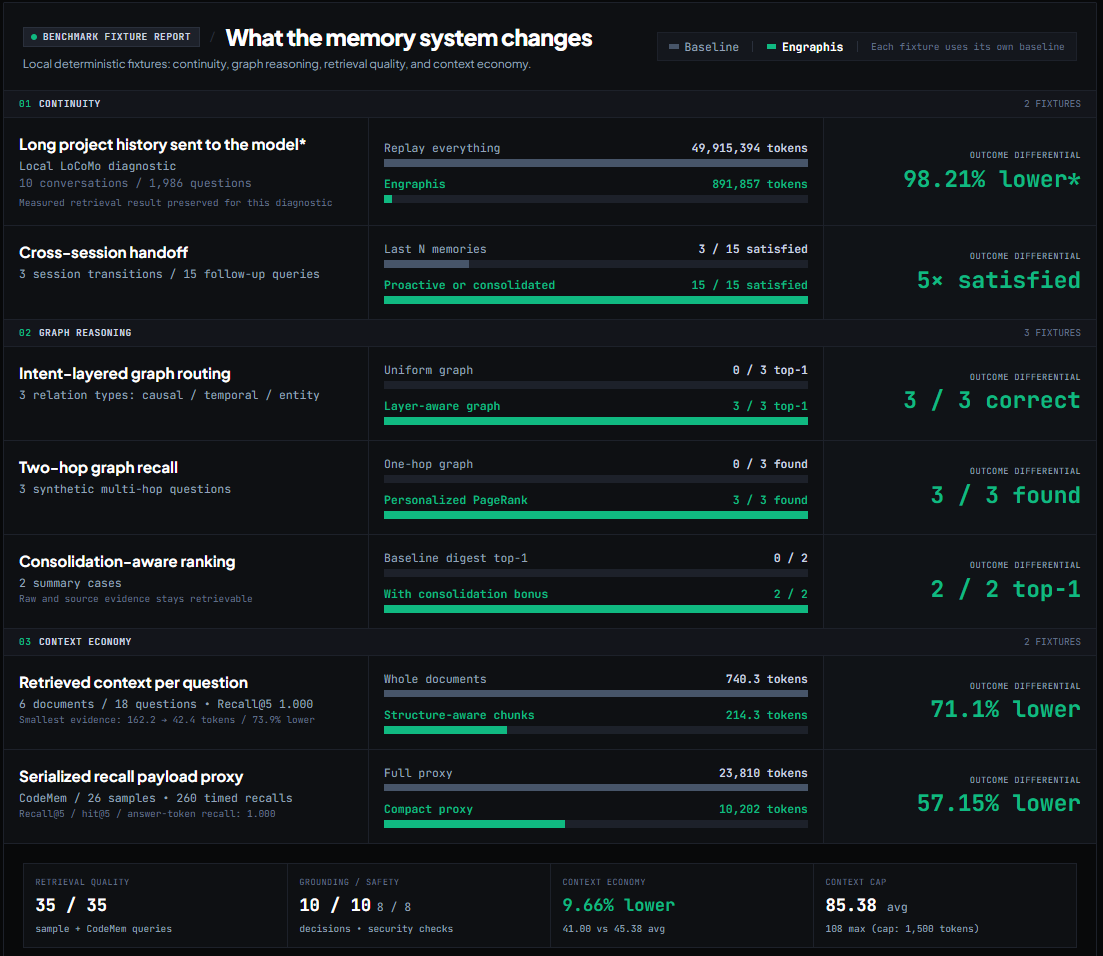
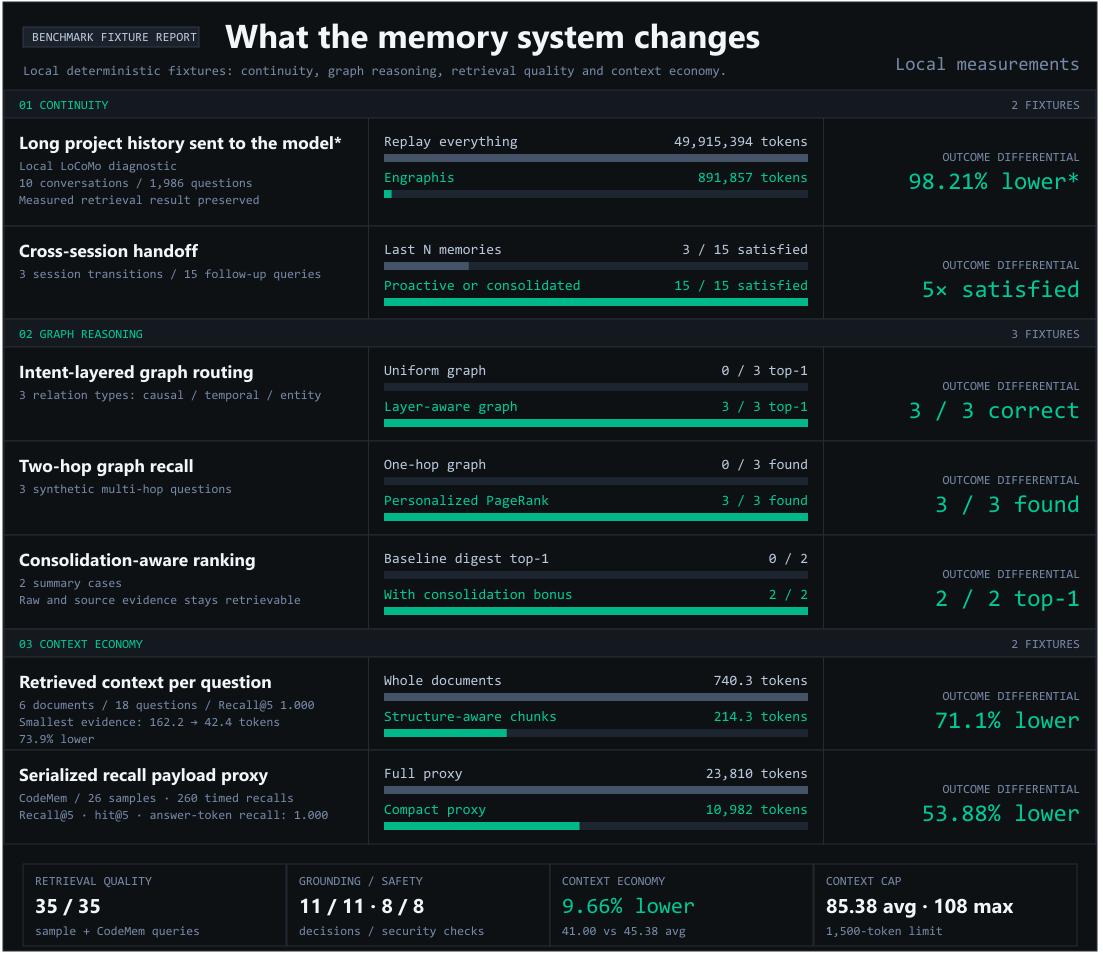
docs(eval): refresh measured payload evidence and rendered figures

diff --git a/tests/test_benchmark_evidence.py b/tests/test_benchmark_evidence.py
@@ -154,7 +154,7 @@ def test_readme_distinguishes_every_registered_token_context_measurement():
         "offline-fixtures-v1.json",
         "offline-chunking",
         "offline-performance",
[2 lines of base64/hex data omitted]
         "There is no universal memory-count",
         "python -m eval.vector_scale",
         'vector_backend="sqlite-vec"',
@@ -288,7 +288,7 @@ def test_example_visual_uses_the_checked_in_offline_fixture_results(
     }
     assert "5/5 answerable questions" in visual
     assert "6/6 off-topic questions" in visual
[2 lines of base64/hex data omitted]
 
 
 def test_context_savings_visual_uses_only_registered_measurements():
@@ -307,6 +307,7 @@ def test_context_savings_visual_uses_only_registered_measurements():
     performance = committed["performance"]
     context_full = performance["full_serialized_payload_tokens"]
     context_compact = performance["compact_serialized_payload_tokens"]
+    grounded_total = committed["grounded"]["answerable"] + committed["grounded"]["off_topic"]
     payload_samples = performance["questions"]
     timed_recalls = performance["timed_recalls"]
 
@@ -341,11 +342,19 @@ def test_context_savings_visual_uses_only_registered_measurements():
         f"{100 * performance['serialized_payload_savings_ratio']:.2f}% lower",
         f"{performance['mean_context_tokens']:.2f} avg · {performance['max_context_tokens']} max",
         "35 / 35",
-        "10 / 10 · 8 / 8",
+        f"{grounded_total} / {grounded_total} · 8 / 8",
         "9.66% lower",
         "Local deterministic fixtures",
     ):
         assert evidence in visual
+
+    svg = ElementTree.fromstring(visual)
+    namespace = "{http://www.w3.org/2000/svg}"
+    # Numeric source text must be rendered by SVG, not hidden beside a stale bitmap.
+    assert not svg.findall(f".//{namespace}image")
+    visible_text = {node.text for node in svg.iter(f"{namespace}text")}
+    assert f"{context_compact:,} tokens" in visible_text
+    assert f"{100 * performance['serialized_payload_savings_ratio']:.2f}% lower" in visible_text
 
     for unsupported in (
         "Public evidence is checksum-bound",
@@ -382,7 +391,7 @@ def test_public_numeric_evidence_registry_is_complete_and_live(
     sidecar_path = artifact_path.with_suffix(".json.sha256")
     artifact_bytes = artifact_path.read_bytes()
     artifact_sha = hashlib.sha256(artifact_bytes).hexdigest()
[2 lines of base64/hex data omitted]
 
     assert artifact_sha == expected_sha
     assert sidecar_path.read_text(encoding="ascii") == (

diff --git a/README.md b/README.md
@@ -44,7 +44,7 @@ by default, or accept an explicit workspace plus optional `from_ts`, `to_ts`, an
 `release_version` filters.
 
 <p align="center">
-  <img src="https://raw.githubusercontent.com/Coding-Dev-Tools/engraphis/main/docs/images/context-efficiency.svg" alt="Dark chart of local measurements and deterministic fixtures, including a local LoCoMo diagnostic marked with an asterisk. Cross-session handoff satisfaction rises from 3 of 15 queries with the last memories to 15 of 15 with proactive ranking or a consolidated summary. Intent-layered graph routing rises from 0 of 3 to 3 of 3 correct top-1 targets, and two-hop graph recall rises from 0 of 3 with one-hop expansion to 3 of 3 with Personalized PageRank. Consolidation-aware ranking selects the expected digest in 2 of 2 summary cases instead of 0 of 2 for the baseline. Structure-aware chunks reduce context from 740.3 to 214.3 tokens and the smallest evidence-holding memory from 162.2 to 42.4 tokens. A compact JSON-shape proxy uses 10,202 rather than 23,810 tokens. Grounded recall makes 10 of 10 correct decisions and packed context averages 85.38 tokens under a 1,500-token cap." width="100%">
+  <img src="https://raw.githubusercontent.com/Coding-Dev-Tools/engraphis/main/docs/images/context-efficiency.svg" alt="Dark chart of local measurements and deterministic fixtures, including a local LoCoMo diagnostic marked with an asterisk. Cross-session handoff satisfaction rises from 3 of 15 queries with the last memories to 15 of 15 with proactive ranking or a consolidated summary. Intent-layered graph routing rises from 0 of 3 to 3 of 3 correct top-1 targets, and two-hop graph recall rises from 0 of 3 with one-hop expansion to 3 of 3 with Personalized PageRank. Consolidation-aware ranking selects the expected digest in 2 of 2 summary cases instead of 0 of 2 for the baseline. Structure-aware chunks reduce context from 740.3 to 214.3 tokens and the smallest evidence-holding memory from 162.2 to 42.4 tokens. A compact JSON-shape proxy uses 10,982 rather than 23,810 tokens. Grounded recall makes 11 of 11 correct decisions and packed context averages 85.38 tokens under a 1,500-token cap." width="100%">
   <br>
   <sup>Less repeated history means more room for the task, tools, and useful evidence.</sup>
 </p>
@@ -73,13 +73,13 @@ its counting boundary explicit.
 |---|---|---|---|
 | Retrieved top-5 memory content, averaged per question | Whole documents: **740.3** tokens → structure-aware chunks: **214.3** tokens | **526.0 fewer tokens per question** (**71.1% lower**, about **3.5× smaller**) | Recall@5 **1.000** in both modes across 6 documents and 18 questions |
 | Smallest returned memory that contains the reference evidence | Whole documents: **162.2** tokens → chunks: **42.4** tokens | **119.8 fewer tokens to evidence** (**73.9% lower**, about **3.8× smaller**) | The same 18 questions had a returned evidence-holding memory in both modes |
-| Full versus compact recall payload proxy across one 26-question pass within a 260-timed-recall CodeMem run | Full proxy: **23,810** `engraphis.regex.v1` tokens → compact proxy: **10,202** tokens | **13,608 proxy tokens avoided** (**57.15% lower**) | 26 payload samples; 260 timed recalls; Recall@5, hit@5, and answer-token recall all **1.000** |
+| Full versus compact recall payload proxy across one 26-question pass within a 260-timed-recall CodeMem run | Full proxy: **23,810** `engraphis.regex.v1` tokens → compact proxy: **10,982** tokens | **12,828 proxy tokens avoided** (**53.88% lower**) | 26 payload samples; 260 timed recalls; Recall@5, hit@5, and answer-token recall all **1.000** |
 | Packed prompt-context usage in the same 26-question CodeMem sample pass | Hard budget: **1,500** tokens; observed mean: **85.38**; observed maximum: **108** | A hard cap prevents a recall from exceeding its configured context budget | This is usage accounting, not a before/after savings comparison |
 
 These values are evidence IDs `offline-chunking` and `offline-performance` in
 [`offline-fixtures-v1.json`](https://github.com/Coding-Dev-Tools/engraphis/blob/main/docs/benchmark-evidence/offline-fixtures-v1.json),
 SHA-256
[2 lines of base64/hex data omitted]
 [`BENCHMARKS.md`](https://github.com/Coding-Dev-Tools/engraphis/blob/main/BENCHMARKS.md#public-numeric-evidence-registry)
 records the matching suite digest, exact commands, and per-command config digests. External,
 model-dependent, consolidation, productivity, and latency results remain unpublished until the
@@ -872,7 +872,7 @@ grant. See [`docs/LICENSING.md`](https://github.com/Coding-Dev-Tools/engraphis/b
 
 ### Reliability implementation candidate
 
-The current source uses schema 17 for durable, content-free vector-index repair.
+The current source uses schema 18 for durable, content-free vector-index repair and atomic memory-command receipts. Upgrades use the existing verified-backup migration path.
 See [the reliability program](https://github.com/Coding-Dev-Tools/engraphis/blob/main/docs/RELIABILITY_PROGRAM.md) for exact implementation,
 validation, migration and release boundaries. Managed processing now requires explicit
 workspace approval in Manage → Settings. Existing installations start with readable

diff --git a/BENCHMARKS.md b/BENCHMARKS.md
@@ -11,12 +11,12 @@ For the locked operator sequence for a public canonical run, see
 Every exact public aggregate retained below comes from the checked-in, public-safe
 [`offline-fixtures-v1.json`](docs/benchmark-evidence/offline-fixtures-v1.json) artifact. Its
 SHA-256 is
[2 lines of base64/hex data omitted]
 adjacent `.sha256` file. The artifact contains no raw questions, answers, prompts, customer data,
 or per-record content fingerprints.
 
 The fixture-suite digest is
[2 lines of base64/hex data omitted]
 the digest algorithm and records the SHA-256 of every suite and dataset file. Each evidence ID
 also binds its exact command through `sha256(UTF-8 exact command)`:
 
@@ -72,8 +72,8 @@ frontier-model QA score.
   JSON-safe schema. Payload proxies are sampled once per question, independently of the number
   of timed iterations; they are not serialized MCP envelopes or transport responses. In the
   registered CodeMem run, 26 payload samples total **23,810** full-proxy
-  `engraphis.regex.v1` tokens versus **10,202** compact-proxy tokens, avoiding **13,608** proxy
-  tokens (**57.15% lower**), while 260 recalls are timed. Packed context across the same 26
+  `engraphis.regex.v1` tokens versus **10,982** compact-proxy tokens, avoiding **12,828** proxy
+  tokens (**53.88% lower**), while 260 recalls are timed. Packed context across the same 26
   samples averages **85.38** tokens and reaches **108** under a 1,500-token cap; Recall@5,
   hit@5, and answer-token recall remain 1.000. These aggregates are evidence ID
   `offline-performance` in the registry above. `--filler-memories`, `--candidate-k`, and
